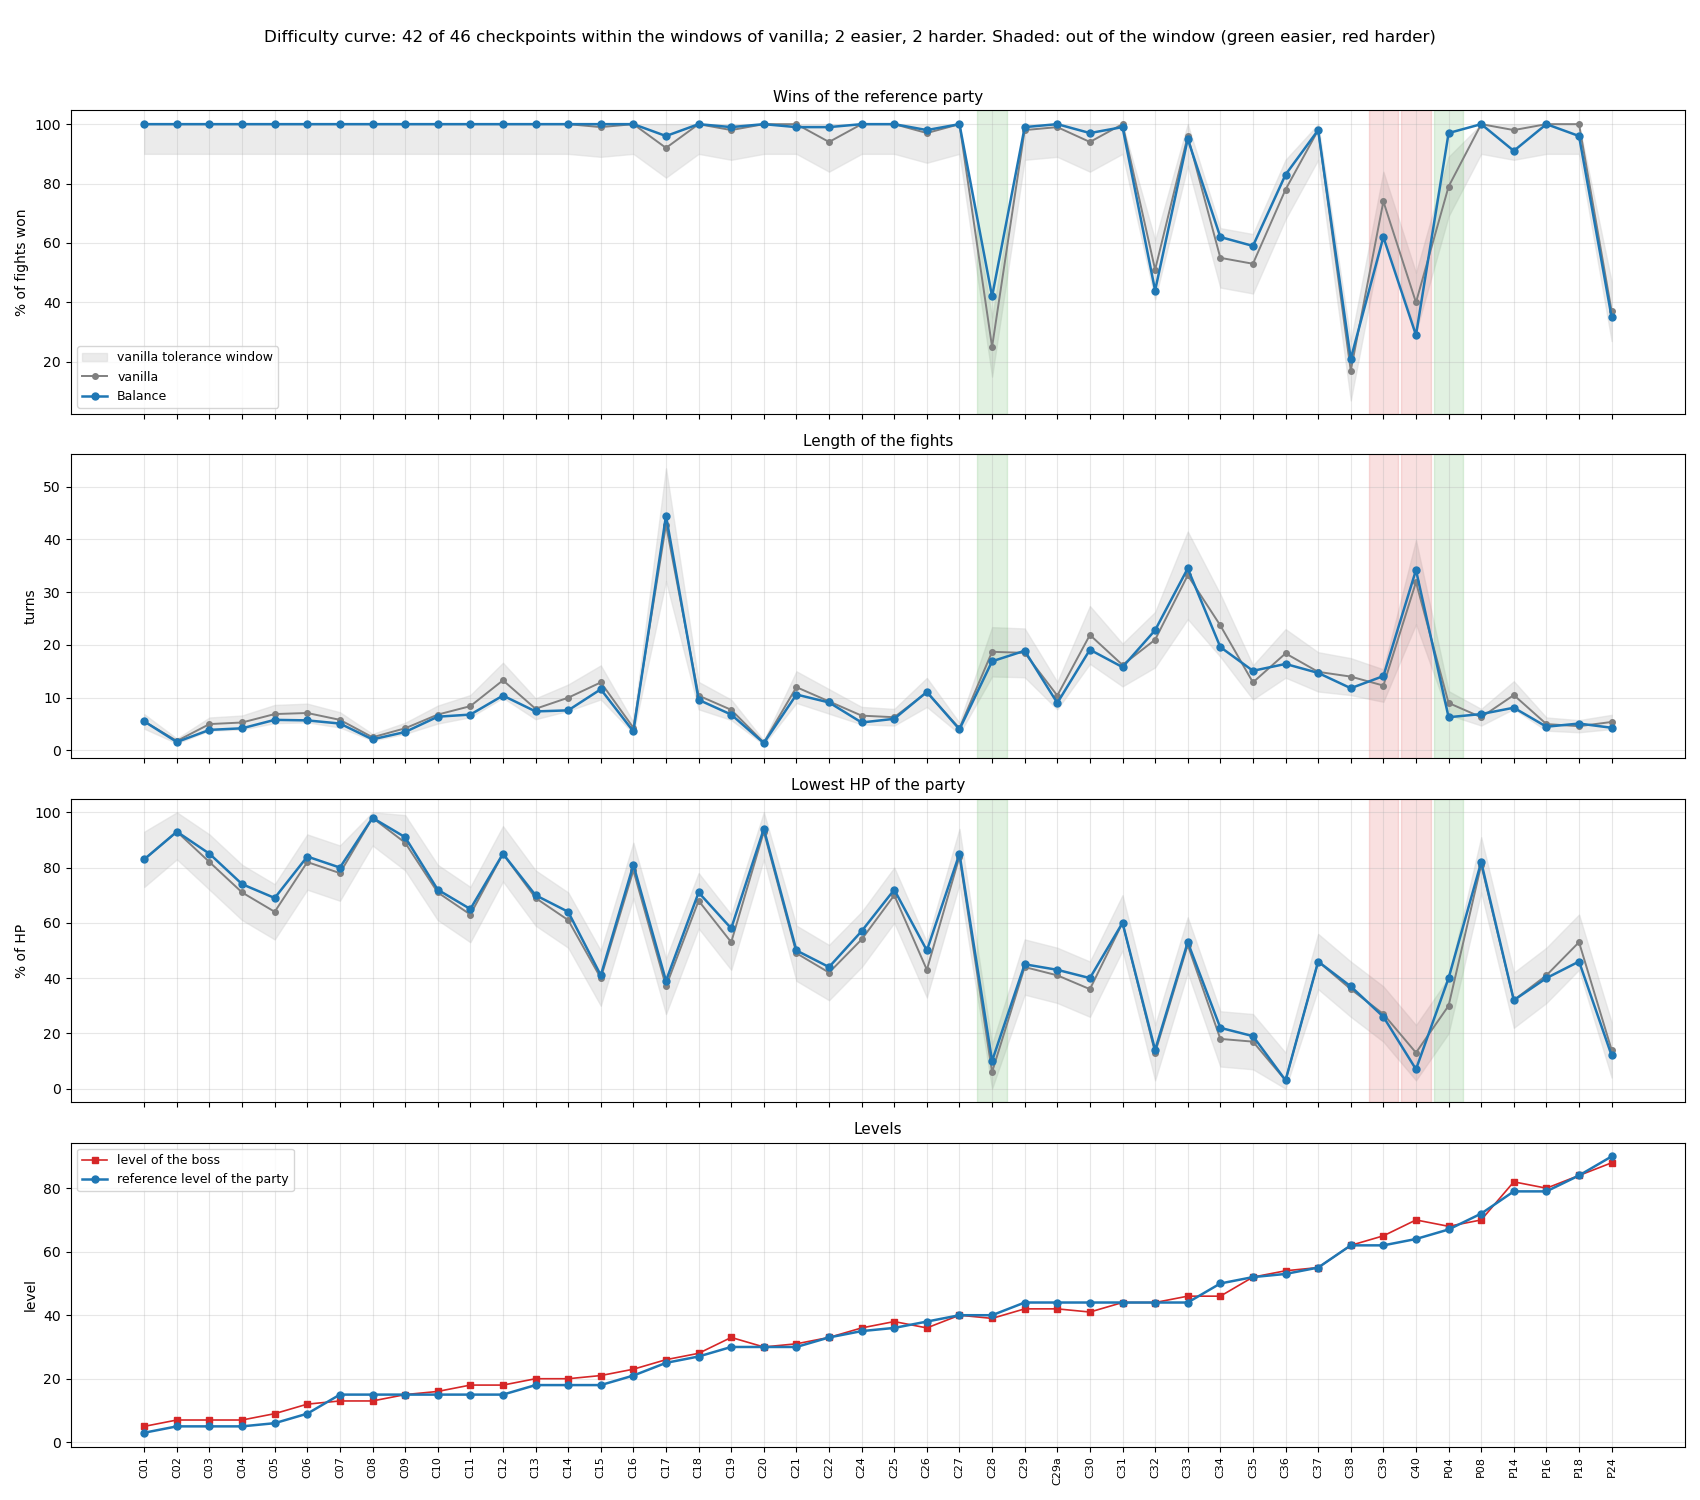
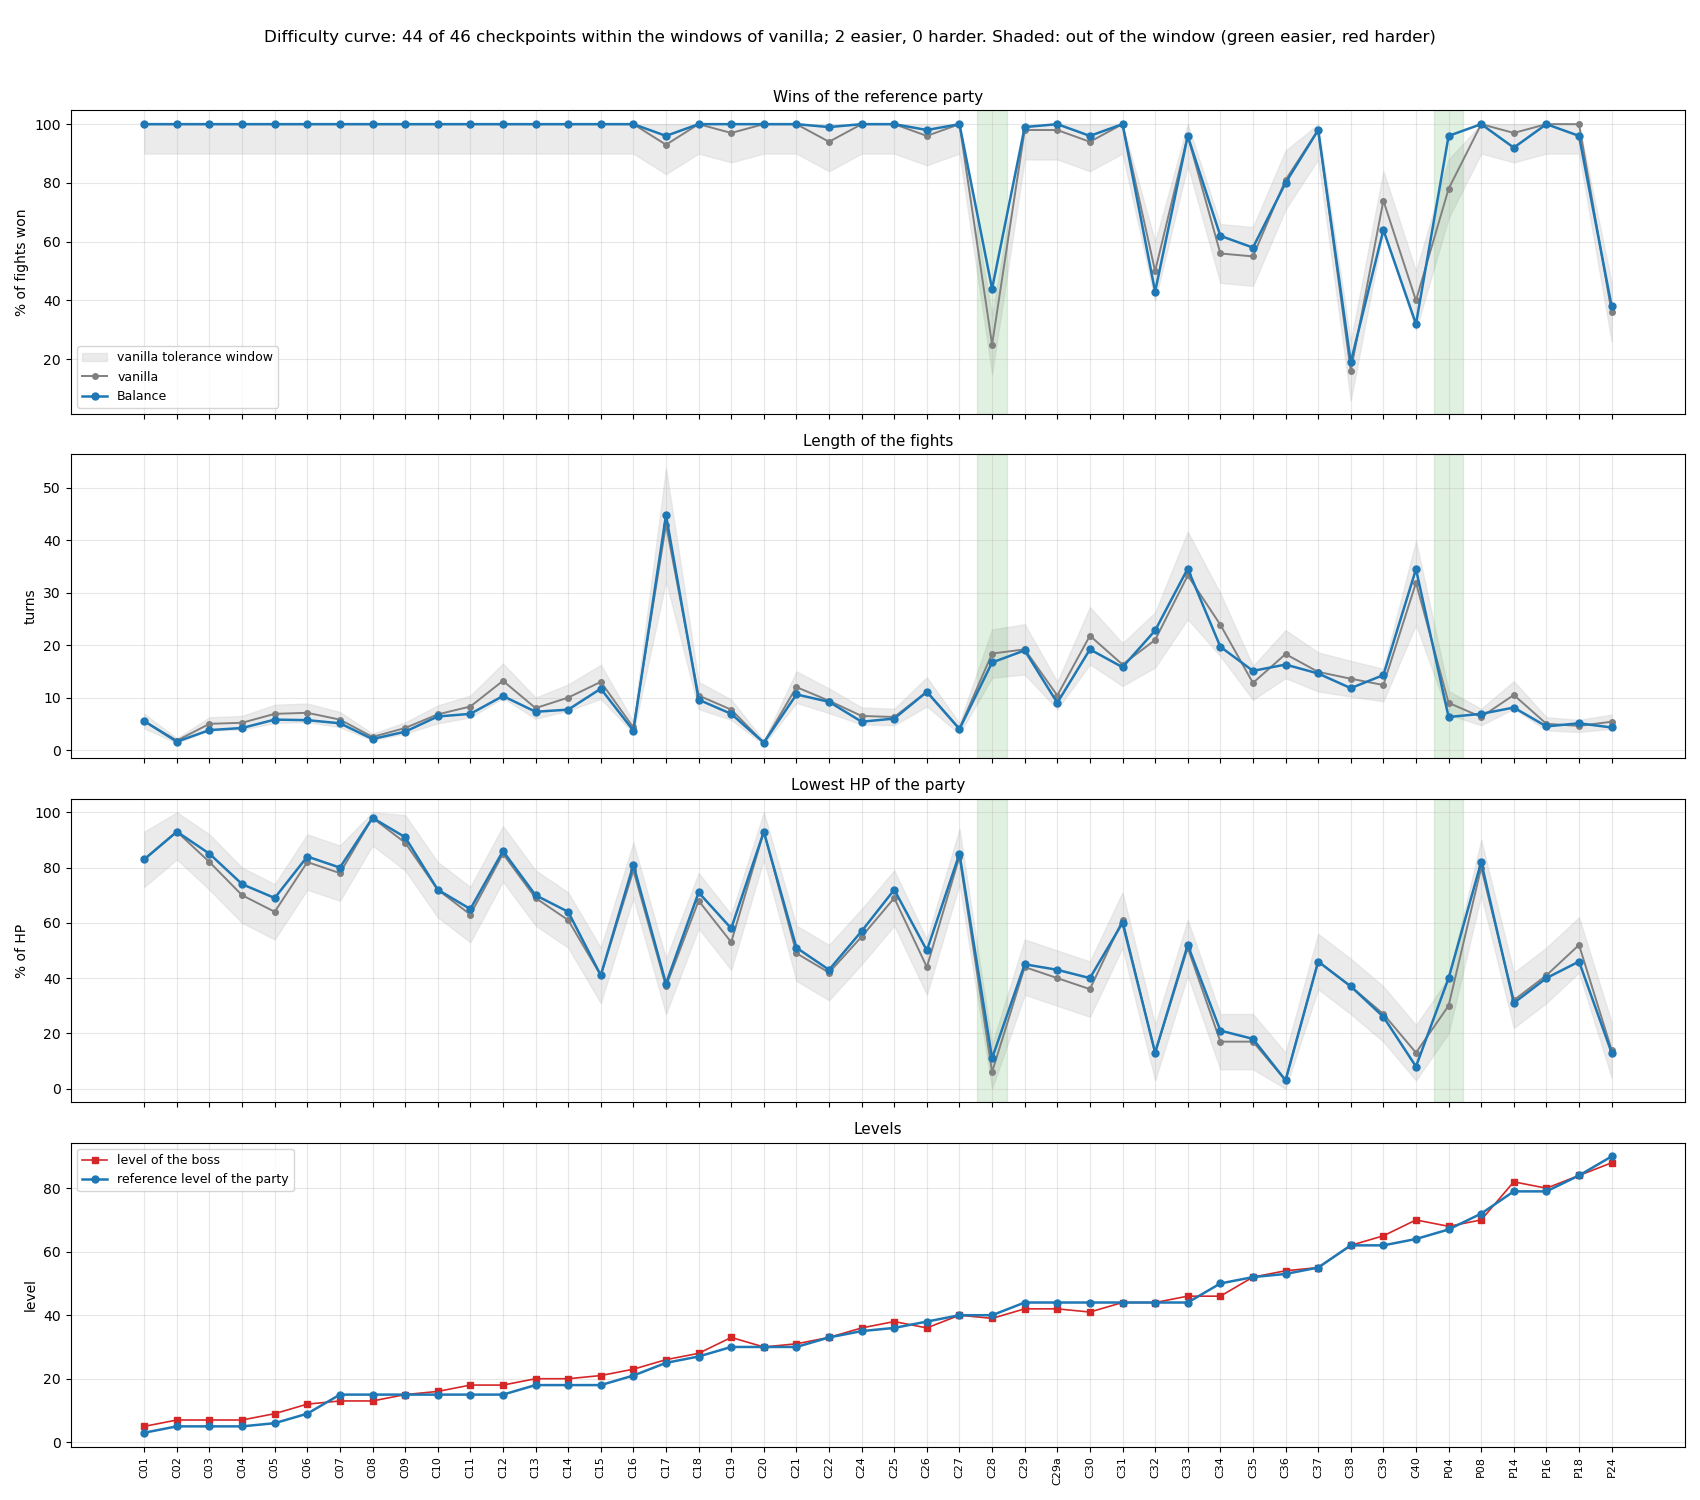
Raise check_runs to 200 and refresh reports and charts

diff --git a/measures/POSTGAME_COMPARE.md b/measures/POSTGAME_COMPARE.md
@@ -1,63 +1,63 @@
 # The postgame on the variant against vanilla (generated by dtcli postgame-compare)
 
-**55 bosses (160 runs a boss); vanilla reaches the floor of its class at 49 of them within a crown bonus of 50; of those, the variant wins over 15 points more at 1 and over 15 points less at 4. Collapsed to 0% wins: 0.**
+**55 bosses (200 runs a boss); vanilla reaches the floor of its class at 49 of them within a crown bonus of 50; of those, the variant wins over 15 points more at 0 and over 15 points less at 4. Collapsed to 0% wins: 0.**
 
 Crown: the least bonus at which the vanilla party reaches the floor (the preparation the fight asks for in the model; 50 where it never does).
 
 | Boss | Class | Crown | Wins, vanilla > variant | Length, vanilla > variant | Lowest HP |
 |---|---|---|---|---|---|
-| P01 Aradia (1st fight) | easy | 0 | 100% > 100% | 5.2 > 5.4 | 79% > 81% |
-| P02 Iktomi | easy | 10 | 91% > 99% | 9.4 > 6.1 | 34% > 46% |
-| P03 Aradia (2nd fight) | normal | 40 | 85% > 84% | 20.9 > 15.3 | 40% > 38% |
-| P04 Sukuna-Hikona | easy | 10 | 97% > 99% | 6.7 > 4.7 | 44% > 48% |
-| P05 Euthys | normal | 30 | 76% > 86% | 19.0 > 14.4 | 27% > 35% |
-| P06 Overdue | hard | 0 | 32% > 26% | 18.4 > 18.6 | 12% > 8% |
-| P07 Royal Villa, three bosses | easy | 20 | 88% > 72% | 8.6 > 9.5 | 24% > 18% |
-| P08 Qitian Dasheng | easy | 0 | 100% > 100% | 6.3 > 6.9 | 81% > 82% |
-| P09 Azathoth | normal | 10 | 63% > 69% | 8.1 > 6.7 | 18% > 21% |
-| P10 Kuchinawa | normal | 30 | 54% > 61% | 4.8 > 4.7 | 21% > 19% |
-| P11 Aradia (3rd fight) | normal | 0 | 51% > 63% | 6.6 > 6.3 | 17% > 20% |
-| P12 Genbu | normal | 20 | 53% > 56% | 14.6 > 13.4 | 16% > 18% |
-| P13 Nuwa | normal | 20 | 59% > 68% | 4.6 > 4.2 | 17% > 20% |
-| P14 Murasaki Shikibu | normal | 0 | 98% > 91% | 10.5 > 8.1 | 32% > 32% |
-| P15 Aradia (4th fight) | normal | 20 | 74% > 66% | 12.2 > 12.3 | 20% > 19% |
+| P01 Aradia (1st fight) | easy | 0 | 100% > 100% | 5.2 > 5.3 | 79% > 80% |
+| P02 Iktomi | easy | 10 | 93% > 98% | 9.6 > 6.1 | 34% > 46% |
+| P03 Aradia (2nd fight) | normal | 40 | 84% > 85% | 20.7 > 15.1 | 39% > 39% |
+| P04 Sukuna-Hikona | easy | 10 | 97% > 100% | 6.7 > 4.7 | 43% > 49% |
+| P05 Euthys | normal | 30 | 74% > 84% | 19.2 > 14.0 | 26% > 35% |
+| P06 Overdue | hard | 0 | 31% > 25% | 18.9 > 18.8 | 12% > 8% |
+| P07 Royal Villa, three bosses | easy | 20 | 89% > 72% | 8.6 > 9.5 | 25% > 18% |
+| P08 Qitian Dasheng | easy | 0 | 100% > 100% | 6.3 > 6.9 | 80% > 82% |
+| P09 Azathoth | normal | 10 | 63% > 66% | 8.1 > 6.7 | 18% > 20% |
+| P10 Kuchinawa | normal | 30 | 56% > 62% | 4.8 > 4.7 | 21% > 20% |
+| P11 Aradia (3rd fight) | normal | 0 | 54% > 62% | 6.6 > 6.3 | 18% > 20% |
+| P12 Genbu | normal | 20 | 52% > 60% | 14.5 > 13.4 | 16% > 20% |
+| P13 Nuwa | normal | 20 | 57% > 66% | 4.5 > 4.3 | 17% > 19% |
+| P14 Murasaki Shikibu | normal | 0 | 97% > 92% | 10.5 > 8.1 | 32% > 31% |
+| P15 Aradia (4th fight) | normal | 20 | 72% > 68% | 12.1 > 12.3 | 21% > 19% |
 | P16 Aradia (5th fight) | normal | 0 | 100% > 100% | 5.0 > 4.5 | 41% > 40% |
-| P17 Last Judgment | normal | 20 | 75% > 71% | 6.0 > 5.9 | 30% > 26% |
-| P18 Aradia (6th fight) | normal | 0 | 100% > 96% | 4.6 > 5.1 | 53% > 46% |
-| P19 Three goddesses | hard | 10 | 58% > 64% | 6.4 > 6.0 | 18% > 20% |
-| P20 Crom Cruach (weakened superboss) | hard | 10 | 45% > 31% | 11.3 > 10.5 | 17% > 12% |
-| P21 Ria the Farsighted | easy | 10 | 92% > 44% | 4.5 > 4.2 | 41% > 15% |
-| P22 Chika the Impenetrable | hard | 40 | 54% > 43% | 9.6 > 9.2 | 8% > 6% |
-| P23 Samael (Dreamscape) | normal | 20 | 52% > 46% | 5.3 > 5.4 | 15% > 13% |
-| P24 Aradia (7th fight) | normal | 10 | 66% > 62% | 4.2 > 3.3 | 28% > 26% |
-| P25 Mil the Overlord | easy | 20 | 94% > 96% | 3.2 > 2.8 | 43% > 48% |
+| P17 Last Judgment | normal | 20 | 74% > 68% | 6.0 > 5.9 | 30% > 25% |
+| P18 Aradia (6th fight) | normal | 0 | 100% > 96% | 4.6 > 5.1 | 52% > 46% |
+| P19 Three goddesses | hard | 10 | 56% > 64% | 6.4 > 6.0 | 18% > 20% |
+| P20 Crom Cruach (weakened superboss) | hard | 10 | 43% > 31% | 11.3 > 10.6 | 16% > 12% |
+| P21 Ria the Farsighted | easy | 10 | 92% > 46% | 4.4 > 4.2 | 41% > 16% |
+| P22 Chika the Impenetrable | hard | 40 | 53% > 42% | 9.4 > 9.2 | 8% > 6% |
+| P23 Samael (Dreamscape) | normal | 20 | 52% > 48% | 5.3 > 5.4 | 14% > 13% |
+| P24 Aradia (7th fight) | normal | 10 | 68% > 62% | 4.1 > 3.3 | 30% > 26% |
+| P25 Mil the Overlord | easy | 20 | 94% > 96% | 3.3 > 2.7 | 43% > 48% |
 | P26 Lina the Statuesque | easy | 10 | 92% > 86% | 3.6 > 4.0 | 49% > 42% |
-| P27 Melek Taus (Gruneworth) | normal | 50 | 58% > 46% | 1.6 > 1.7 | 15% > 11% |
-| P28 Hell's Angel | normal | 10 | 58% > 51% | 2.2 > 2.5 | 22% > 18% |
-| P29 Panagia (weakened) | easy | 40 | 80% > 86% | 1.9 > 1.7 | 25% > 29% |
-| P30 Lolo and Tenerezza (weakened superboss) | hard | 30 | 46% > 38% | 4.5 > 4.5 | 13% > 10% |
-| P31 Matrix superboss, weakened (Magna Meretrix) | hard | 20 | 27% > 43% | 5.7 > 5.2 | 8% > 13% |
-| P32 Aradia (8th fight), First Sealbook afterword | hard | 50 | 35% > 41% | 2.5 > 2.3 | 7% > 8% |
-| P33 Final boss after the 8th Aradia (Panagia, then Radiant Being) | normal | 50 | 76% > 76% | 4.7 > 5.1 | 25% > 22% |
-| P34 Casino VIP, 1st (Tama the Red) | hard | 40 | 60% > 59% | 3.5 > 3.1 | 23% > 22% |
-| P35 Casino VIP, 2nd (Riko the Reclusive) | hard | 30 | 21% > 1% | 9.5 > 4.8 | 6% > 0% |
-| P36 Casino VIP, 3rd (Rai the Sweltering) | hard | 20 | 28% > 29% | 3.3 > 4.8 | 8% > 6% |
-| P37 Casino VIP, 4th (Mor the Drunken) | hard | 10 | 25% > 24% | 3.9 > 3.4 | 9% > 9% |
-| P38 Casino VIP, 5th (Gam the Wise) | hard | 10 | 24% > 31% | 3.9 > 3.5 | 7% > 8% |
-| P39 Casino VIP, 6th (Ruu the Woodsy) | hard | 30 | 52% > 58% | 6.4 > 6.1 | 19% > 20% |
-| P40 Casino VIP, 7th (five bosses with Mandra Prince and Princess) | hard | 40 | 28% > 22% | 7.7 > 8.0 | 13% > 10% |
+| P27 Melek Taus (Gruneworth) | normal | 50 | 57% > 48% | 1.6 > 1.7 | 14% > 11% |
+| P28 Hell's Angel | normal | 10 | 59% > 49% | 2.2 > 2.5 | 23% > 17% |
+| P29 Panagia (weakened) | easy | 50 | 94% > 98% | 1.4 > 1.3 | 35% > 38% |
+| P30 Lolo and Tenerezza (weakened superboss) | hard | 30 | 48% > 38% | 4.5 > 4.5 | 13% > 11% |
+| P31 Matrix superboss, weakened (Magna Meretrix) | hard | 20 | 29% > 41% | 5.6 > 5.2 | 8% > 12% |
+| P32 Aradia (8th fight), First Sealbook afterword | hard | 50 | 32% > 41% | 2.5 > 2.3 | 6% > 8% |
+| P33 Final boss after the 8th Aradia (Panagia, then Radiant Being) | normal | 50 | 78% > 76% | 4.7 > 5.1 | 26% > 23% |
+| P34 Casino VIP, 1st (Tama the Red) | hard | 40 | 60% > 62% | 3.5 > 3.1 | 24% > 23% |
+| P35 Casino VIP, 2nd (Riko the Reclusive) | hard | 30 | 22% > 0% | 9.3 > 4.8 | 6% > 0% |
+| P36 Casino VIP, 3rd (Rai the Sweltering) | hard | 20 | 28% > 28% | 3.3 > 4.8 | 7% > 5% |
+| P37 Casino VIP, 4th (Mor the Drunken) | hard | 10 | 28% > 24% | 3.8 > 3.4 | 10% > 9% |
+| P38 Casino VIP, 5th (Gam the Wise) | hard | 10 | 26% > 34% | 4.0 > 3.5 | 8% > 9% |
+| P39 Casino VIP, 6th (Ruu the Woodsy) | hard | 30 | 54% > 58% | 6.4 > 6.0 | 19% > 20% |
+| P40 Casino VIP, 7th (five bosses with Mandra Prince and Princess) | hard | 40 | 28% > 22% | 7.7 > 8.2 | 13% > 10% |
 | P41 Wandering Brigade (Citlalinicue) | normal | 50 (floor not reached) | 0% > 1% | - > 5.3 | 0% > 0% |
-| P42 Wandering Brigade (Marduk) | hard | 50 (floor not reached) | 5% > 2% | 10.2 > 12.1 | 1% > 0% |
-| P43 Wandering Brigade (Arjuna) | normal | 20 | 90% > 65% | 10.6 > 11.5 | 40% > 27% |
-| P44 Wandering Brigade (Yoshitsune) | normal | 10 | 50% > 51% | 3.0 > 2.9 | 19% > 19% |
-| P45 Four Therian Kings (Zouchou Kuma) | hard | 30 | 27% > 18% | 11.4 > 11.4 | 7% > 4% |
-| P46 Four Therian Kings (Jikoku Peggin) | hard | 10 | 23% > 29% | 5.4 > 4.7 | 8% > 10% |
-| P47 Four Therian Kings (Koumoku Mary) | hard | 50 (floor not reached) | 6% > 18% | 7.6 > 5.6 | 2% > 4% |
-| P48 Four Therian Kings (Bishamon Peggy) | hard | 40 | 38% > 26% | 6.2 > 7.0 | 13% > 9% |
+| P42 Wandering Brigade (Marduk) | hard | 50 (floor not reached) | 4% > 3% | 10.2 > 12.0 | 1% > 1% |
+| P43 Wandering Brigade (Arjuna) | normal | 20 | 88% > 64% | 10.6 > 11.5 | 39% > 27% |
+| P44 Wandering Brigade (Yoshitsune) | normal | 10 | 52% > 52% | 3.0 > 2.9 | 20% > 19% |
+| P45 Four Therian Kings (Zouchou Kuma) | hard | 30 | 25% > 18% | 11.4 > 11.3 | 6% > 4% |
+| P46 Four Therian Kings (Jikoku Peggin) | hard | 10 | 24% > 30% | 5.5 > 4.8 | 9% > 11% |
+| P47 Four Therian Kings (Koumoku Mary) | hard | 50 (floor not reached) | 7% > 18% | 7.6 > 5.6 | 2% > 4% |
+| P48 Four Therian Kings (Bishamon Peggy) | hard | 40 | 39% > 27% | 6.2 > 7.0 | 13% > 10% |
 | P49 Hell's Hole superboss (Crom Cruach, two fights) | hard | 50 (floor not reached) | 0% > 0% | - > - | 0% > 0% |
 | P50 Casino superboss (Lolo and Tenerezza) | hard | 50 (floor not reached) | 0% > 0% | - > - | 0% > 0% |
 | P51 Matrix superboss (Adon, Magna Meretrix, Samson) | hard | 50 (floor not reached) | 0% > 0% | - > - | 0% > 0% |
-| P52 First Sealbook afterword (Bearerophon) | hard | 0 | 62% > 49% | 2.7 > 3.1 | 21% > 17% |
-| P53 First Sealbook afterword (Magical Mary) | hard | 0 | 88% > 92% | 2.6 > 2.1 | 32% > 39% |
-| P54 First Sealbook afterword (Beard Master) | hard | 0 | 92% > 95% | 2.3 > 2.3 | 43% > 41% |
-| P55 First Sealbook afterword (Mul the Mechanical) | hard | 0 | 96% > 99% | 5.8 > 5.1 | 54% > 59% |
+| P52 First Sealbook afterword (Bearerophon) | hard | 0 | 64% > 50% | 2.7 > 3.1 | 22% > 17% |
+| P53 First Sealbook afterword (Magical Mary) | hard | 0 | 87% > 93% | 2.6 > 2.1 | 33% > 39% |
+| P54 First Sealbook afterword (Beard Master) | hard | 0 | 92% > 94% | 2.3 > 2.3 | 43% > 41% |
+| P55 First Sealbook afterword (Mul the Mechanical) | hard | 0 | 96% > 99% | 5.8 > 5.1 | 53% > 58% |
